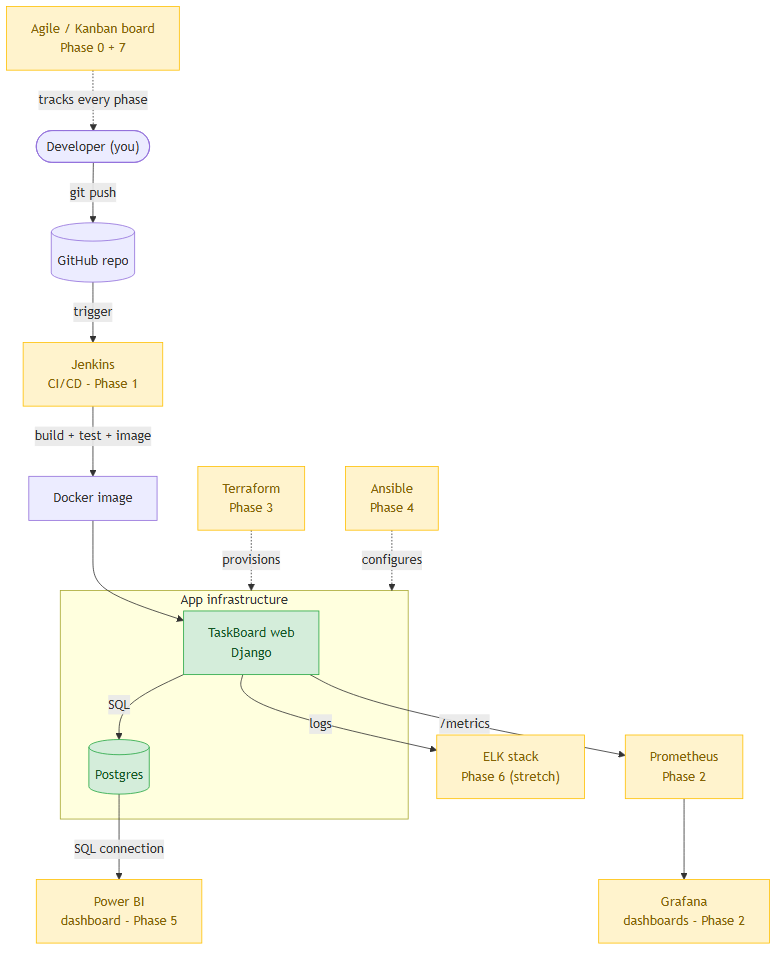
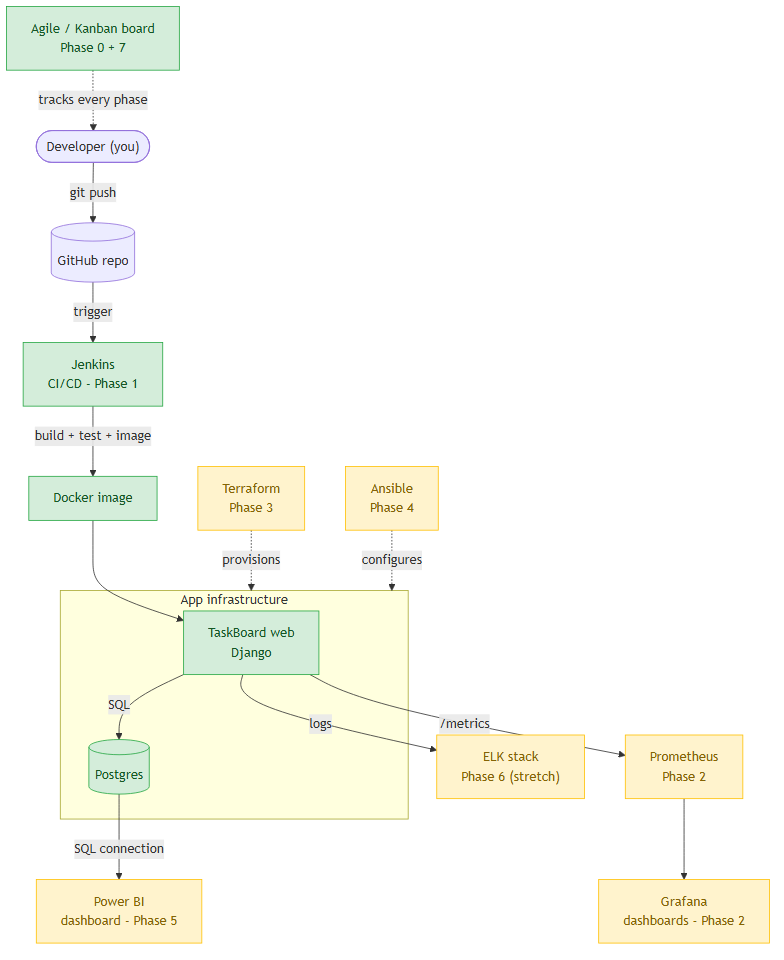
Phase 1 complete: wiki + diagrams updated (Jenkins green)

Changed region(s): [[0.0, 0.0, 0.2449, 0.0938], [0.0306, 0.3438, 0.2143, 0.4375], [0.0306, 0.4688, 0.2143, 0.5625]]

diff --git a/wiki/concepts/jenkins.md b/wiki/concepts/jenkins.md
@@ -1,27 +1,62 @@
 ---
 tags: [jenkins, ci-cd, devops]
-status: not-started
+status: done
 phase: 1
-updated: 2026-05-30
+updated: 2026-05-31
 ---
 
 # Jenkins
 
 ## What it is
-_(to fill during Phase 1)_
+An automation server that runs a **pipeline** against your code (build, test,
+deploy). Self-hosted — you run the Jenkins server yourself (here: a Docker
+container). The pipeline is defined as code in a `Jenkinsfile` committed to the repo.
 
 ## How it maps to what I already know
-GitHub Actions `deploy.yml` → Jenkins `Jenkinsfile`. Both = automated
-build/test/deploy on a trigger. See [[plan]] for the narrative.
+GitHub Actions, stage for stage:
+
+| GitHub Actions | Jenkins |
+|---|---|
+| `.github/workflows/deploy.yml` | `Jenkinsfile` |
+| `jobs → steps` | `stages { stage { steps } }` |
+| Runs on GitHub's runners | Runs on my Jenkins server |
+| `on: push` | "Build Now" / SCM poll / webhook |
 
 ## Hands-on (what I built)
-_(to fill)_
+- Ran Jenkins LTS in Docker, with the **Docker CLI installed** + the host Docker
+  socket mounted (`/var/run/docker.sock`) so the pipeline can build images
+  ("Docker-out-of-Docker").
+- Wrote a `Jenkinsfile` with 3 stages: **Checkout → Build image → Test**.
+- Connected a Pipeline job to the GitHub repo ("Pipeline script from SCM").
+- Build #1 green: image `taskboard:1` built + tagged, `Ran 4 tests ... OK`.
 
 ## Key commands / snippets
-_(to fill)_
+```bash
+# start Jenkins (build image with Docker CLI + plugins, run with socket mount)
+docker compose -f jenkins/docker-compose.yml up -d --build
+# first-run unlock secret
+docker exec jenkins-jenkins-1 cat /var/jenkins_home/secrets/initialAdminPassword
+```
+Pipeline test stage runs tests inside the freshly built image, using in-memory
+SQLite (`DJANGO_TEST_SQLITE=1`) so no Postgres is needed in CI.
 
 ## Likely interview Q&A
-_(to fill)_
+- **Q: Jenkins vs GitHub Actions?** A: Same CI/CD concept; Jenkins is
+  self-hosted/plugin-driven (full control, you maintain it), Actions is managed
+  by GitHub. Jenkinsfile ≈ workflow yaml.
+- **Q: How does a containerized Jenkins build images?** A: Mount the host Docker
+  socket into the Jenkins container so its Docker CLI drives the host daemon.
+- **Q: Declarative vs scripted pipeline?** A: I used declarative
+  (`pipeline { stages { } }`) — structured and readable; scripted is full Groovy.
+- **Q: How do you trigger builds?** A: Manual (Build Now), SCM polling, or a
+  webhook from GitHub on push.
 
 ## Gotchas
-_(to fill)_
+- First-run **unlock password** is a bootstrap secret in
+  `$JENKINS_HOME/secrets/initialAdminPassword` (+ echoed to logs) so only someone
+  with host access can finish setup — prevents drive-by takeover.
+- Default branch specifier is `*/master`; our repo is `main`.
+- Harmless `No directory at: /app/staticfiles/` warning during tests (collectstatic
+  not run in the test path).
+
+See [[plan]] · next: [[concepts/prometheus-grafana]].

diff --git a/wiki/log.md b/wiki/log.md
@@ -2,6 +2,13 @@
 
 Append-only, newest at top. Format: `## [YYYY-MM-DD HH:MM] verb | title`.
 
+## [2026-05-31] phase-1 | Jenkins CI pipeline green
+- Ran Jenkins LTS in Docker (custom image: + Docker CLI + plugins; socket mounted).
+- Pipeline job from SCM (GitHub repo) runs Jenkinsfile: Checkout → Build image → Test.
+- Build #1 SUCCESS: built/tagged taskboard:1 + :latest, `Ran 4 tests ... OK`.
+- Added DJANGO_TEST_SQLITE branch so CI tests run on in-memory SQLite (no Postgres).
+- Phase 1 DONE. Next: Phase 2 — Prometheus + Grafana.
+
 ## [2026-05-30] phase-0 | App verified + diagrams rendered
 - `docker compose up` succeeds: web + db (healthy) containers running.
 - Verified endpoints: /api/tasks/ (JSON), /metrics (Prometheus), 250 tasks seeded.

diff --git a/wiki/interview/cheatsheet.md b/wiki/interview/cheatsheet.md
@@ -20,7 +20,7 @@ ready to skim Monday morning. Filled rows appear as phases complete.
 ## Per-tool one-liners
 | Tool | What it is (1 line) | What I built | Maps to |
 |------|---------------------|--------------|---------|
-| Jenkins | _tbd_ | _tbd_ | GitHub Actions |
+| Jenkins | Self-hosted CI/CD server; pipeline-as-code in a Jenkinsfile | Dockerized Jenkins, SCM pipeline: checkout→build image→test, green build | GitHub Actions (Jenkinsfile ≈ deploy.yml) |
 | Prometheus+Grafana | _tbd_ | _tbd_ | monitoring |
 | Terraform | _tbd_ | _tbd_ | infra-as-code |
 | Ansible | _tbd_ | _tbd_ | config mgmt |

diff --git a/wiki/plan.md b/wiki/plan.md
@@ -29,7 +29,7 @@ dataset for Power BI.
 | # | Phase | Est | Status | Page |
 |---|-------|-----|--------|------|
 | 0 | Setup + Agile board + scaffold app | 45m | done | this page |
-| 1 | Jenkins CI pipeline | 2.5h | not-started | [[concepts/jenkins]] |
+| 1 | Jenkins CI pipeline | 2.5h | done | [[concepts/jenkins]] |
 | 2 | Prometheus + Grafana | 2.5h | not-started | [[concepts/prometheus-grafana]] |
 | 3 | Terraform (IaC) | 2.5h | not-started | [[concepts/terraform]] |
 | 4 | Ansible (config mgmt) | 2h | not-started | [[concepts/ansible]] |
